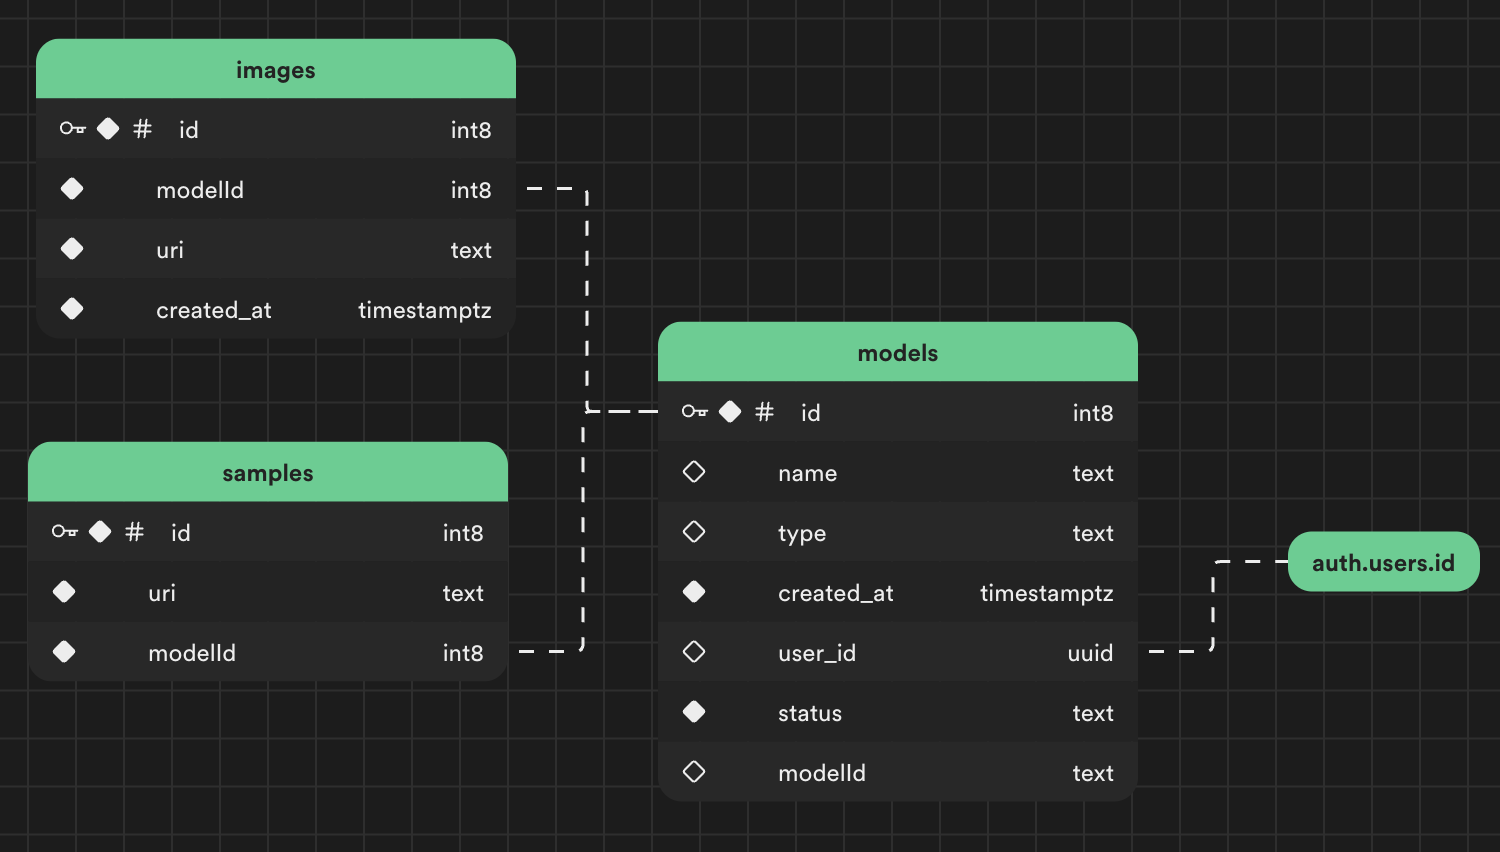
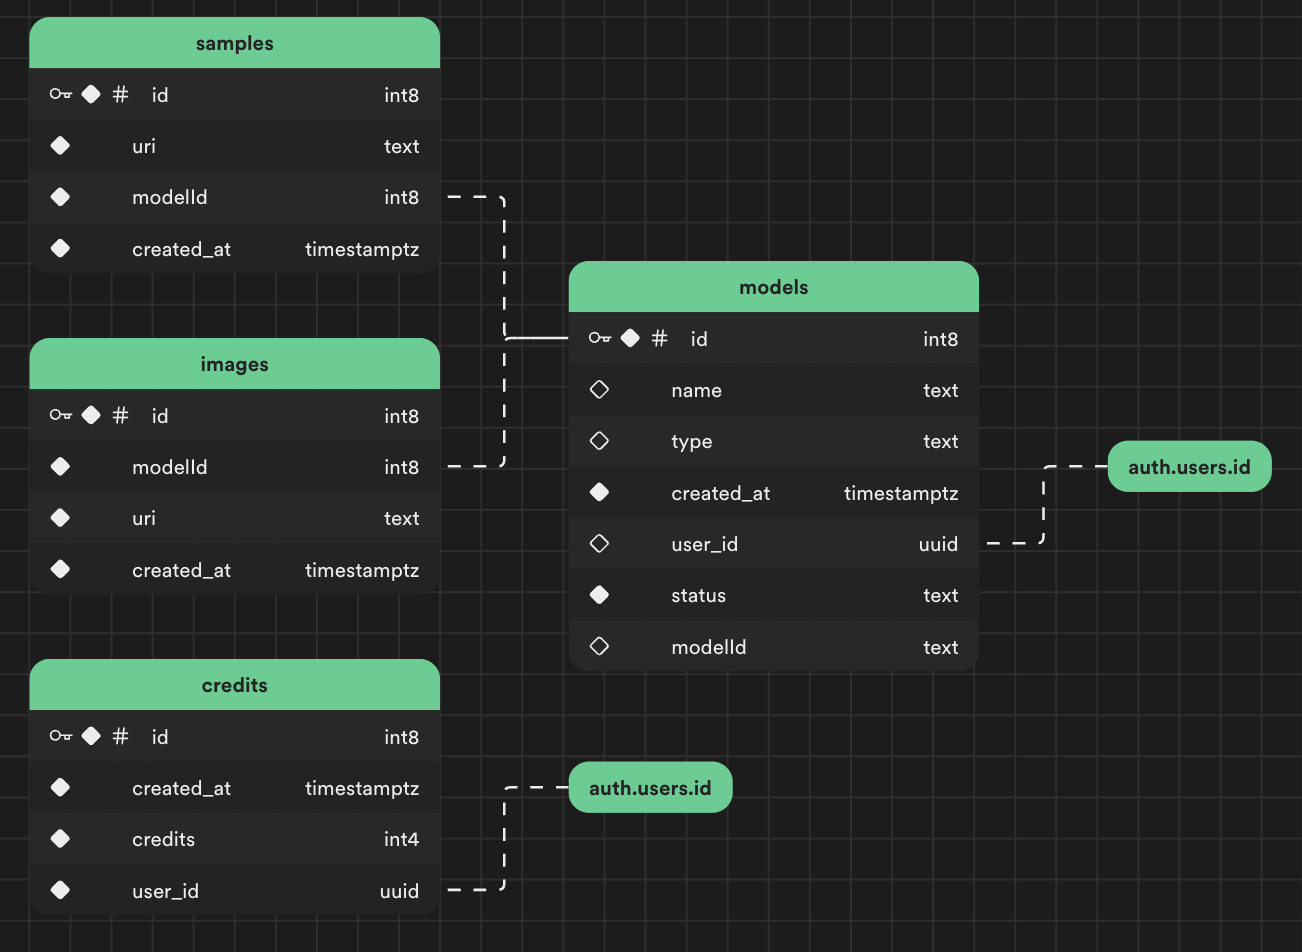
Add credits schema to readme for supabase

diff --git a/README.md b/README.md
@@ -90,6 +90,13 @@ cd headshots-starter
    - uri (text)
    - modelId (int8) (foreign_key)\*
 
+   [credits]
+
+   - id (int8)
+   - created_at (timestamptz)
+   - credits (int4)
+   - user_id (uuid) (foreign_key)\*
+
 6.  Magic Link Auth (Supabase)
 
    In your supabase [dashboard](https://supabase.com/dashboard/project/{projectId}/auth/templates), make sure to update the email template for magic link correctly. You can use the following template:
